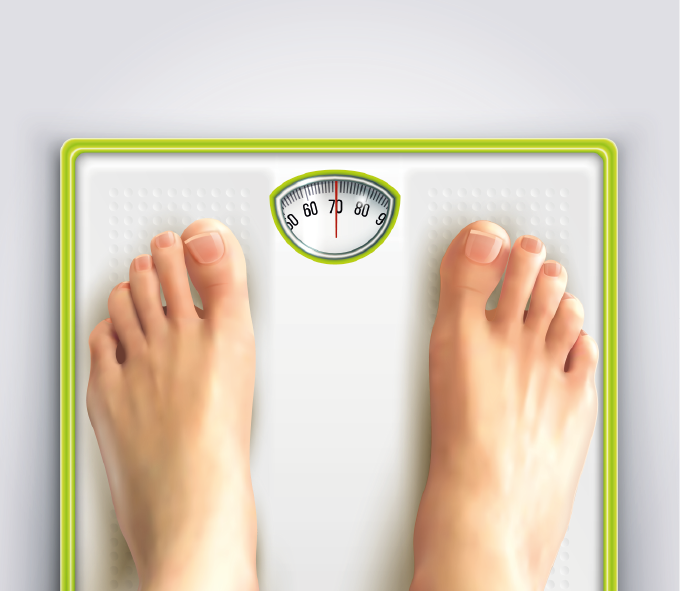
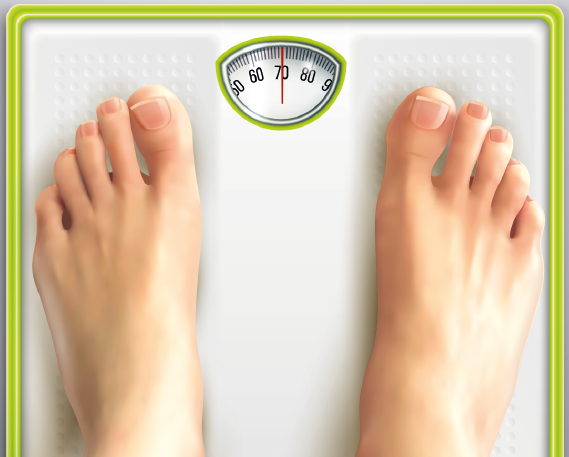
Ajustes CRog + Felipe A

diff --git a/2M/MAT.tex b/2M/MAT.tex
@@ -78,6 +78,8 @@ pedrinhas que queremos adicionar, por exemplo.}
 \includegraphics[width=.8\textwidth]{./media/image3_prof.png}
 \end{figure}
 
+%André: eliminar as linhas da imagem e colocar as respostas por extenso em uma única linha usando o comando \rosa e aumentar a imagem (28/8/23, 11h56) CRoger + Felipe A 
+
 %\coment{Oriente os alunos a pensarem na função que cada número exerce em relação às aplicações em que são apresentados antes de resolverem a atividade.}
 
 \num{2} Pinte o quadrado que contém o 5° número da sequência a seguir.
@@ -98,10 +100,13 @@ direita representa as unidades, e assim por diante.
 \includegraphics[width=.7\textwidth]{./media/image5_prof.png}
 \end{figure}
 
+% André: individualizar as imagens e melhorar distribuição na página (28/8/23, CR + Felipe A)
 %\coment{Oriente os alunos a não escreverem os algarismos, mas sim a escreverem os números por extenso, em língua portuguesa.}
 \pagebreak
 \num{4} Transcreva os números representados nos ábacos, preenchendo os
 quadros abaixo das letras. Depois, ordene as letras no quadro seguinte.
+
+% André: apagar respostas do quadro e escrevê-las por extenso (28/8/23, CR + Felipe A)
 
 \begin{figure}[htpb!]
 \includegraphics[width=\textwidth]{./media/image6_prof.png}
@@ -192,6 +197,8 @@ Logo, o prêmio foi de de R\$ 200,00.}
 \num{9} Indique quais dos números a seguir estão no caça-palavras. Pinte
 as bolas que contêm esses números.
 
+% André: tirar resposta do caça-palavras (28/8/23, CR + Felipe A)
+
 \begin{figure}[htpb!]
 \includegraphics[width=\textwidth]{./media/image11_prof.png}
 \end{figure}
@@ -207,9 +214,11 @@ as bolas que contêm esses números.
 Alinhe os estabelecimentos na reta numérica. Escreva o nome dos
 estabelecimentos nos quadrados correspondentes após a leitura do texto.
 
+% André: tirar as respostas (28/8/23, CR + Felipe A)
+
 \begin{figure}[htpb!]
 \centering
-\includegraphics[width=+1.09\textwidth]{./media/image14_prof.png}
+\includegraphics[width=\textwidth]{./media/image14_prof.png}
 \end{figure}
 
 % \num{11} Analise os números e preencha a tabela com as informações pedidas.
@@ -250,6 +259,8 @@ estabelecimentos nos quadrados correspondentes após a leitura do texto.
 \pagebreak
 \num{3} Qual dos ábacos a seguir representa um número com algarismo ímpar na ordem
 das dezenas?
+
+% André: individualizar as imagens e usar \escolha + \item para os itens (28/8/23, CR + Felipe A)
 
 \begin{figure}[htpb!]
 \includegraphics[scale=1]{./media/image16.png}
@@ -308,6 +319,8 @@ e 23 dezenas. Logo, pensaram: Se temos 23 dezenas, e cada 10 dezenas
 formam uma centena, então temos 2 centenas, 3 dezenas e 9 unidades.
 Pensando assim, os amigos encontraram a quantidade total de figurinhas, que é de 239.}
 
+% André: quebrar parágrafos para o texto ocupar o espaço branco ao final da página (28/8/23, CR + Felipe A)
+
 \pagebreak
 \section*{Atividades}
 
@@ -323,8 +336,8 @@ se apresentam nesta sequência:
 
 %\coment {Os números que podem compor o número 280 em sete parcelas são: 10, 20, 30, 40, 50, 60 e 70. Esta atividade pode ser feita em conjunto com a aula de ciências. Auxilie os alunos, pois a atividade pode exigir um pouco mais deles.}
 
-Pinte as sete parcelas dos números que compõem o número central na ordem
-crescente, conforme a ordem das cores do arco-íris.
+Começando com vermelho e terminando com violeta, pinte, do menor para o maior, sete 
+números que, somados, resultam no número que está no centro da tabela. 
 
 \begin{figure}[H]
 \centering
@@ -340,7 +353,7 @@ crescente, conforme a ordem das cores do arco-íris.
 500: 250 + 125 + 125 ou 200 + 150 + 150.
 \end{mdframed}
 
-\begin{itemize}
+\begin{escolha}
 \item 650: \reduline{Sugestão de resposta: 600 + 30 + 20 ou 500 + 100 + 50\hfill}
 
 \item 160: \reduline{Sugestão de resposta: 80 + 70 + 10 ou 50 + 50 + 60\hfill}
@@ -353,7 +366,7 @@ crescente, conforme a ordem das cores do arco-íris.
 
 \item 975: \reduline{Sugestão de resposta: 900 + 70 + 5 ou 375 + 300 + 300\hfill}
 
-\end{itemize}
+\end{escolha}
 
 %\coment{Os alunos poderão compor os números da forma que quiserem. Certifique-se de que eles usem pelo menos três parcelas e de que a adição esteja correta. É dado um exemplo no primeiro número.}
 
@@ -367,7 +380,7 @@ utilizando somente a subtração, utilizando três parcelas. Para isso, siga o m
 500: 900 -- 200 -- 200 ou 600 -- 50 -- 50.
 \end{mdframed}
 
-\begin{itemize}
+\begin{escolha}
 \item 650: \reduline{Sugestão de resposta: 1000 - 300 - 50 ou 900 - 150 - 100\hfill}
 
 \item 160: \reduline{Sugestão de resposta: 300 - 100 - 40 ou 200 - 20 - 20\hfill}
@@ -380,7 +393,7 @@ utilizando somente a subtração, utilizando três parcelas. Para isso, siga o m
 
 \item 975: \reduline{Sugestão de resposta: 1000 - 20 - 5 ou 2000 - 1000 - 25\hfill}
 
-\end{itemize}
+\end{escolha}
 
 \num{4} Resolva as adições e subtrações completando os quadros a seguir.
 
@@ -388,16 +401,16 @@ utilizando somente a subtração, utilizando três parcelas. Para isso, siga o m
 \centering
 \begin{tabular}{|c|c|c|c|c|}
 \hline
-100 & + & 123 & = & {\color[HTML]{EB3597} 223} \\ \hline
-800 & - & 600 & = & {\color[HTML]{EB3597} 200} \\ \hline
-200 & + & 146 & = & {\color[HTML]{EB3597} 346} \\ \hline
-450 & - & 200 & = & {\color[HTML]{EB3597} 250} \\ \hline
-100 & + & 200 & = & {\color[HTML]{EB3597} 300} \\ \hline
-250 & + & 70  & = & {\color[HTML]{EB3597} 320} \\ \hline
-500 & - & 250 & = & {\color[HTML]{EB3597} 250} \\ \hline
-400 & + & 130 & = & {\color[HTML]{EB3597} 530} \\ \hline
-320 & - & 60  & = & {\color[HTML]{EB3597} 260} \\ \hline
-170 & + & 40  & = & {\color[HTML]{EB3597} 210} \\ \hline
+100 & + & 123 & = & \rosa{223} \\ \hline
+800 & - & 600 & = & \rosa{200} \\ \hline
+200 & + & 146 & = & \rosa{346} \\ \hline
+450 & - & 200 & = & \rosa{250} \\ \hline
+100 & + & 200 & = & \rosa{300} \\ \hline
+250 & + & 70  & = & \rosa{320} \\ \hline
+500 & - & 250 & = & \rosa{250} \\ \hline
+400 & + & 130 & = & \rosa{530} \\ \hline
+320 & - & 60  & = & \rosa{260} \\ \hline
+170 & + & 40  & = & \rosa{210} \\ \hline
 \end{tabular}
 \end{table}
 
@@ -424,9 +437,11 @@ em uma rodada de três lançamentos, a pontuação máxima será 80 + 80 + 80 =
 
 %\coment{Professor, é importante que você explique a pontuação dessa roleta. Não é difícil de entender, porém, os alunos podem ter dificuldade de interpretar a figura. Explique que, quando o dardo acerta as faixas finas marcadas em vermelho e verde, há pontuações extras: pontos duplicados no caso do verde e triplicados no caso do vermelho.}
 
-Calcule a pontuação das jogadas a seguir. Os ``x'' azuis mostram onde o dardo acertou o alvo.
+Calcule a pontuação das jogadas a seguir. Os ``x'' vermelhos mostram onde o dardo acertou o alvo.
 
 %https://br.freepik.com/vetores-premium/alvo-de-dardos-classico\_25927311.htm\#page=2\&query=dardos\&position=43\&from\_view=search\&track=sph
+
+%André: colocar as respostas por extenso (28/8/23)
 
 \begin{figure}[htpb!]
 \includegraphics[width=.7\textwidth]{./media/image25_prof.png}
@@ -449,13 +464,12 @@ dardo no meio (50), outro dardo no duplo 20 e outro no simples 10.}
 \vspace*{0.5em}
 
 \num{8} Encontre, no caça-palavras, 4 números que, juntos, formam o número 570.
+\coment{Os números são duzentos, trezentos, quarenta e trinta.}
 
 \begin{figure}[H]
 \centering
-\includegraphics[width=.8\textwidth]{./media/image27.png}
+\includegraphics[width=\textwidth]{./media/image27.png}
 \end{figure}
-
-\coment{Os números são duzentos, trezentos, quarenta e trinta.}
 
 \pagebreak
 \num{9} Em um jogo de virar figurinhas, João apostou suas 24 figurinhas e Marcelo apostou suas 29. Na hora da disputa, João virou 15 figuras e Marcelo virou o resto. Responda ao que se pede:
@@ -573,6 +587,7 @@ municípios, Santa Catarina, com 295 municípios e o Rio Grande do Sul, com
 
 Você sabe qual é o número do seu sapato? Ou melhor, você sabe qual número você calça? Já ouviu essa pergunta?
 Pois é! Calçados têm números para representar os seus tamanhos. Mas como isso é medido? Todos temos tamanhos padronizados de pés? É claro que não! Cada um tem um tamanho de pé. Mas, então, como a loja tem sapatos prontos para serem vendidos para qualquer um? Existem vários padrões para numerar um sapato. No Brasil, usamos o padrão francês. Quando alguém usa um sapato 33, isso significa que o pé dessa pessoa mede até 21,6 centímetros. Cada 6,6 milímetros corresponde a uma unidade de medida. 
+%André: retirar o fundo da imagem abaixo
 \begin{figure}[H]
 \centering
 \includegraphics[width=.5\textwidth]{./media/image176.jpg}
@@ -660,18 +675,22 @@ que este instrumento pode medir?
 \includegraphics[scale=.74]{./media/image38.png}
 \end{figure}
 
-Horizontais:
+\textbf{Horizontais}
 
-1- Ele me diz se estou atrasado ou se vou chegar a tempo.
+\begin{itemize}
+\item 1. Ele me diz se estou atrasado ou se vou chegar a tempo.
 
-3- Ela me diz se engordei ou emagreci, medindo minha massa.
+\item 3. Ela me diz se engordei ou emagreci, medindo minha massa.
 
-4- Ela me diz o quanto cresci, além de medir o tamanho das coisas.
+\item 4. Ela me diz o quanto cresci, além de medir o tamanho das coisas.
+\end{itemize}
 
-Verticais:
+\textbf{Verticais}
 
-2- Ela guarda aquilo que mata minha sede, além de me ajudar a medir a
+\begin{itemize}
+\item 2. Ela guarda aquilo que mata minha sede, além de me ajudar a medir a
 capacidade dos líquidos de ocupar espaço.
+\end{itemize}
 
 \vspace*{1em}
 
@@ -679,12 +698,17 @@ capacidade dos líquidos de ocupar espaço.
 
 %\textless{} https://br.freepik.com/vetores-gratis/ilustracao-de-perda-de-peso-de-mulher\_6086077.htm\#query=balan\%C3\%A7a\%20medindo\&position=5\&from\_view=search\&track=ais\textgreater{}
 
+\begin{minipage}{.5\textwidth}
 \begin{figure}[H]
 \centering
-\includegraphics[width=.5\textwidth]{./media/image32.png}
+\includegraphics[width=\textwidth]{./media/image32.png}
 \end{figure}
-
+\end{minipage}
+\hspace{0.5cm}
+\begin{minipage}{.5\textwidth}
 \reduline{80kg, uma vez que o visor da balança apresenta, atualmente, 70 kg.\hfill}
+\linhas{4}
+\end{minipage}
 
 \num{6} A imagem a seguir mostra três objetos.
 

diff --git a/2M/1-fronte.tex b/2M/1-fronte.tex
@@ -50,7 +50,7 @@
               \bigskip
 
               {\Large
-                            AUTORIA
+                            Eduardo Toniolo Campos
 
                             }
               \end{center}
